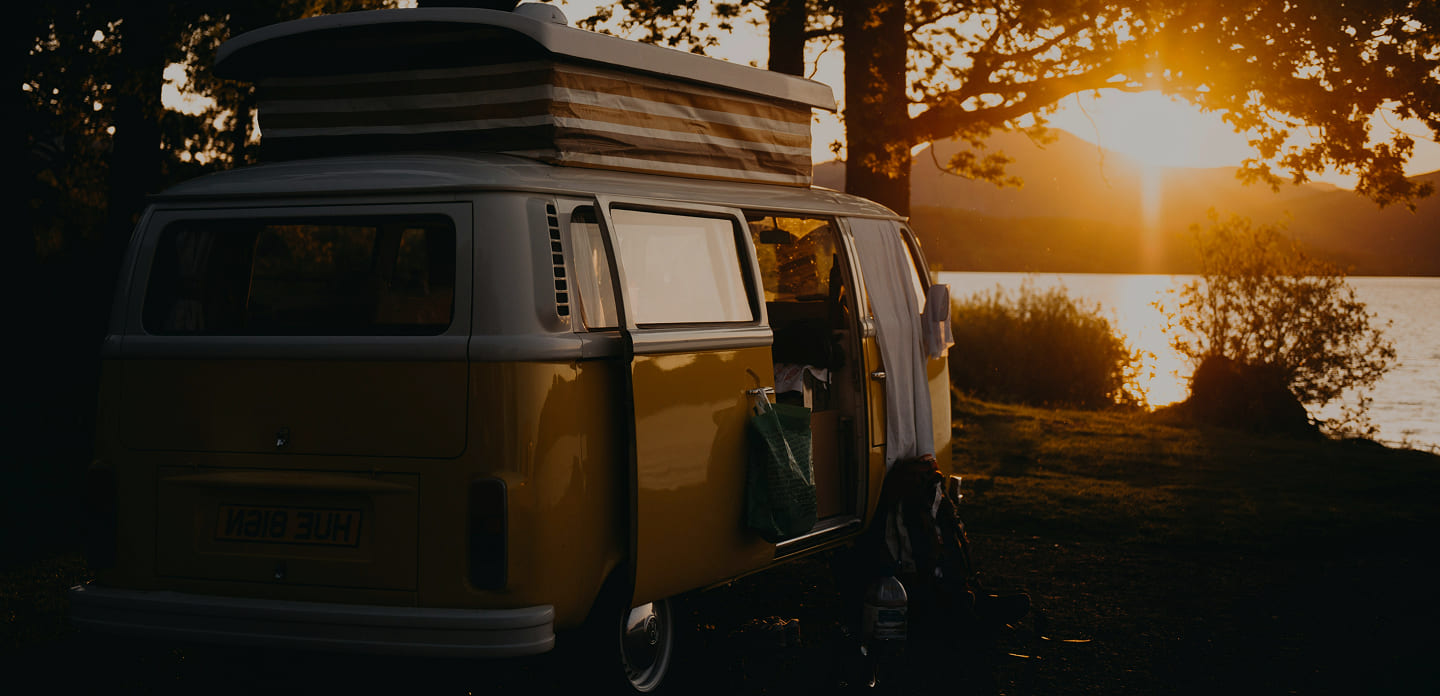
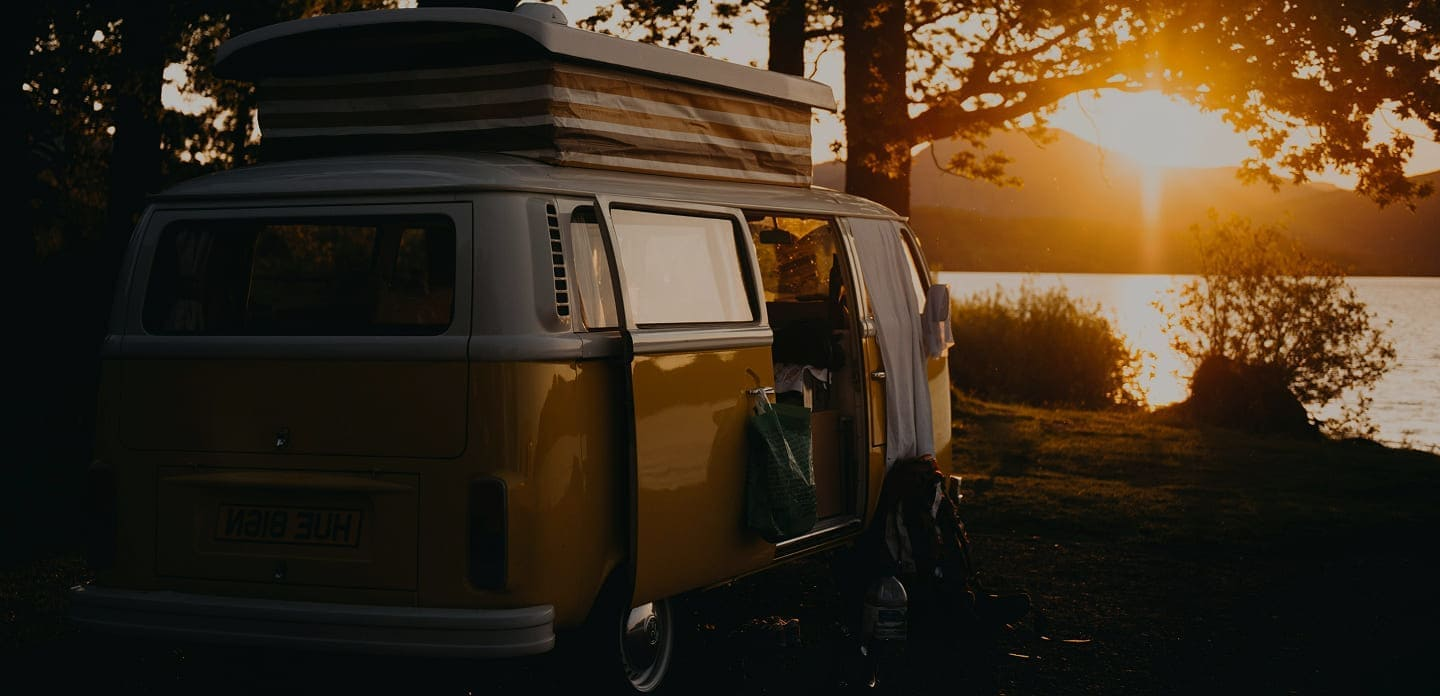
fix readme and optimise the hero pic

diff --git a/README.md b/README.md
@@ -1,16 +1,77 @@
-# React + Vite
+# "TravelTrucks" is the website of a company that rents campers.
 
-This template provides a minimal setup to get React working in Vite with HMR and some ESLint rules.
+This modern responsive site is for people who are interested in renting a
+camper.
 
-Currently, two official plugins are available:
+**Live Demo:**
+[https://traveltrucks-olive.vercel.app/](https://traveltrucks-olive.vercel.app/)
 
-- [@vitejs/plugin-react](https://github.com/vitejs/vite-plugin-react/blob/main/packages/plugin-react) uses [Babel](https://babeljs.io/) (or [oxc](https://oxc.rs) when used in [rolldown-vite](https://vite.dev/guide/rolldown)) for Fast Refresh
-- [@vitejs/plugin-react-swc](https://github.com/vitejs/vite-plugin-react/blob/main/packages/plugin-react-swc) uses [SWC](https://swc.rs/) for Fast Refresh
+## Features
 
-## React Compiler
+- Fully responsive design (Mobile: 480px, Tablet: 768px, Desktop: 1440px)
+- Semantic HTML5 markup
+- Modular CSS architecture
+- Optimized images
+- Own-styled Datepicker
+- Using local-storage
 
-The React Compiler is currently not compatible with SWC. See [this issue](https://github.com/vitejs/vite-plugin-react/issues/428) for tracking the progress.
+## Technologies
 
-## Expanding the ESLint configuration
+- HTML5
+- CSS3 (Flexbox, CSS Variables)
+- modern-normalize
+- JavaScript
+- Axios
+- API
+- VSCode
+- Vite (build tool)
+- Figma
+- Git/GitHub
+- Prettier
+- React
+- React-redux
+- React-router-dom
+- Redux-persist
+- React-hot-toast
+- React-datepicker
+- Formik
 
-If you are developing a production application, we recommend using TypeScript with type-aware lint rules enabled. Check out the [TS template](https://github.com/vitejs/vite/tree/main/packages/create-vite/template-react-ts) for information on how to integrate TypeScript and [`typescript-eslint`](https://typescript-eslint.io) in your project.
+## Installation
+
+```bash
+# Clone repository
+git clone https://github.com/Mohara88s/goit-neo-react-test-task.git
+cd goit-neo-react-test-task
+
+# Install dependencies
+npm install
+
+# Run development server
+npm run dev
+
+```
+
+## Project Structure
+
+```
+.
+├── public/            # Contains static image assets, fonts files, favicons, that are not processed by the build tool.
+├── src/               # Contains all source files for the project.
+│   ├── assets/        # Contains all static assets used in the project.
+|   |   ├── icons/     # Contains SVG sprite.
+|   |   └── styles/    # Contains fonts.css
+│   ├── components/    # Contains components.
+│   ├── layouts/       # Contains layouts.
+│   ├── pages/         # Contains pages.
+│   ├── redux/         # Contains redux.
+│   ├── index.css      # The base CSS.
+│   └── main.jsx       # The main entry point of jsx.
+├── .gitignore         # Specifies files and directories to ignore in version control.
+├── eslint.config.js   # Eslint configurations.
+├── index.html         # The main entry point of the application.
+├── package-lock.json   # The technical document that serves to record and ensure the determinism of project dependencies
+├── package.json       # Lists project dependencies and scripts.
+├── README.md          # Project overview and documentation.
+├── vercel.json        # Vercel configurations
+└── vite.config.js     # Configuration file for Vite build tool.
+```
